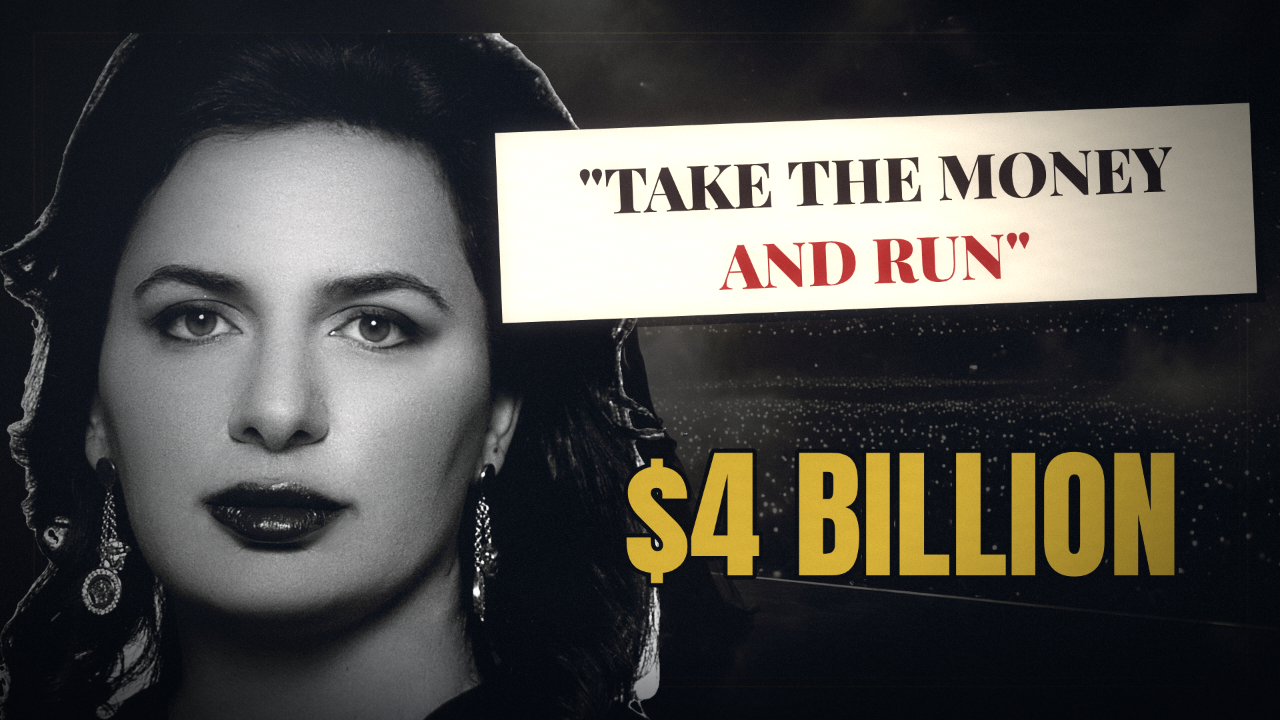
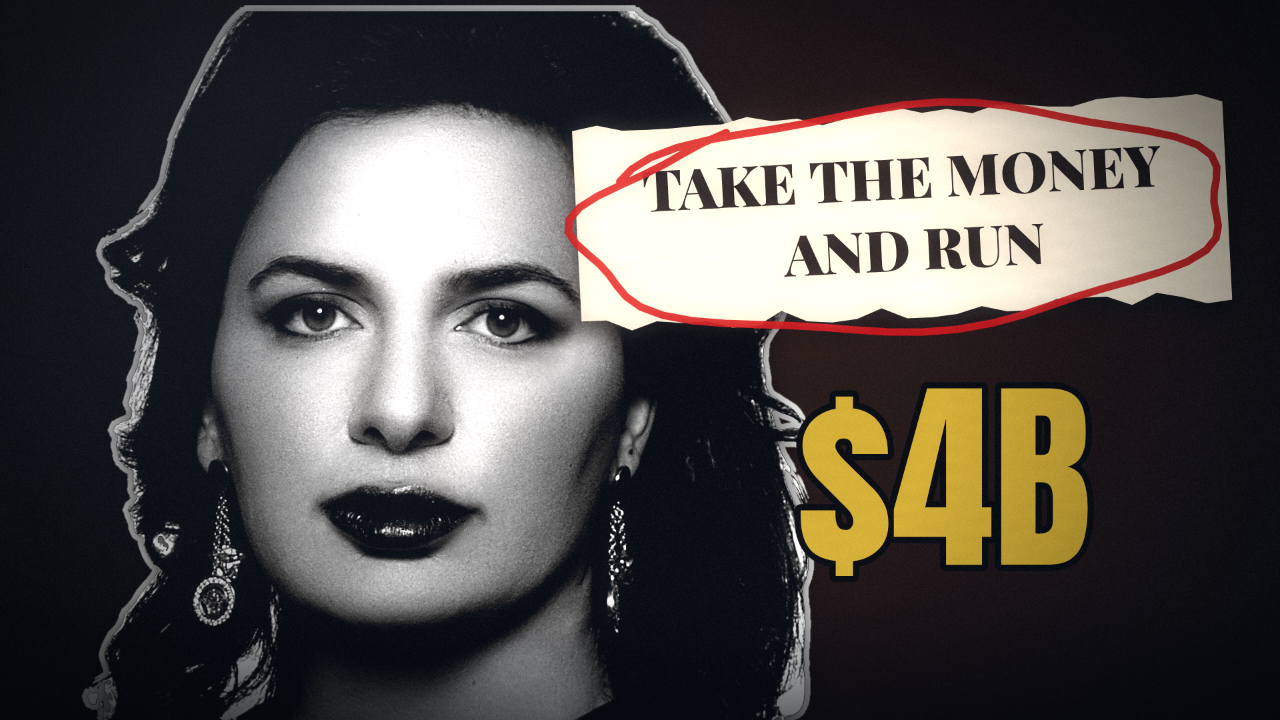
Ep4 v2: new thumbnail; image loader decodes in small batches with retry; 180 s page-load timeout
Claude-Session: https://claude.ai/code/session_015yZdwuvLkygheDizetyCkZ

diff --git a/studio/engine/stickers.js b/studio/engine/stickers.js
@@ -15,7 +15,10 @@ const IMG = new Proxy(_IMG, { get(o, id) { if (id in o || typeof id !== 'string'
   if (!m || !m.stream || !m.src) return undefined; const im = new Image(); const p = new Promise(res => { im.onload = im.onerror = () => { _ppPend.delete(p); res(); }; }); _ppPend.add(p); im.src = m.src; o[id] = im;
   _ppLRU.push(id); if (_ppLRU.length > 900) { const old = _ppLRU.shift(); delete o[old]; } return im; } });
 window.renderReady = async t => { renderEpisode(t); if (!_ppPend.size) return; for (let k = 0; k < 3 && _ppPend.size; k++) await Promise.all([..._ppPend]); renderEpisode(t); };
-function loadImages() { const ps = []; for (const [id, m] of Object.entries(window.IMAGES)) { if (IMG[id] || !m.data) continue; const im = new Image(); im.src = m.data; IMG[id] = im; ps.push(im.decode().catch(() => console.warn('image failed', id))); } return Promise.all(ps); }
+function loadImages() { // decode a few at a time and retry: hundreds of parallel decodes make Chromium drop some (seen on ep. 4)
+  const todo = Object.entries(window.IMAGES).filter(([id, m]) => !IMG[id] && m.data);
+  const one = async ([id, m]) => { for (let k = 0; k < 4; k++) { const im = new Image(); im.src = m.data; try { await im.decode(); IMG[id] = im; return; } catch (e) { await new Promise(r => setTimeout(r, 150 * (k + 1))); } } const im = new Image(); im.src = m.data; IMG[id] = im; console.warn('image failed', id); };
+  let i = 0; const worker = async () => { while (i < todo.length) await one(todo[i++]); }; return Promise.all(Array.from({ length: 6 }, worker)); }
 const _stk = {};
 function stickerCanvas(id, style) {
   const key = id + '|' + style; if (_stk[key]) return _stk[key]; const im = IMG[id]; if (!im || !im.naturalWidth) return null;
